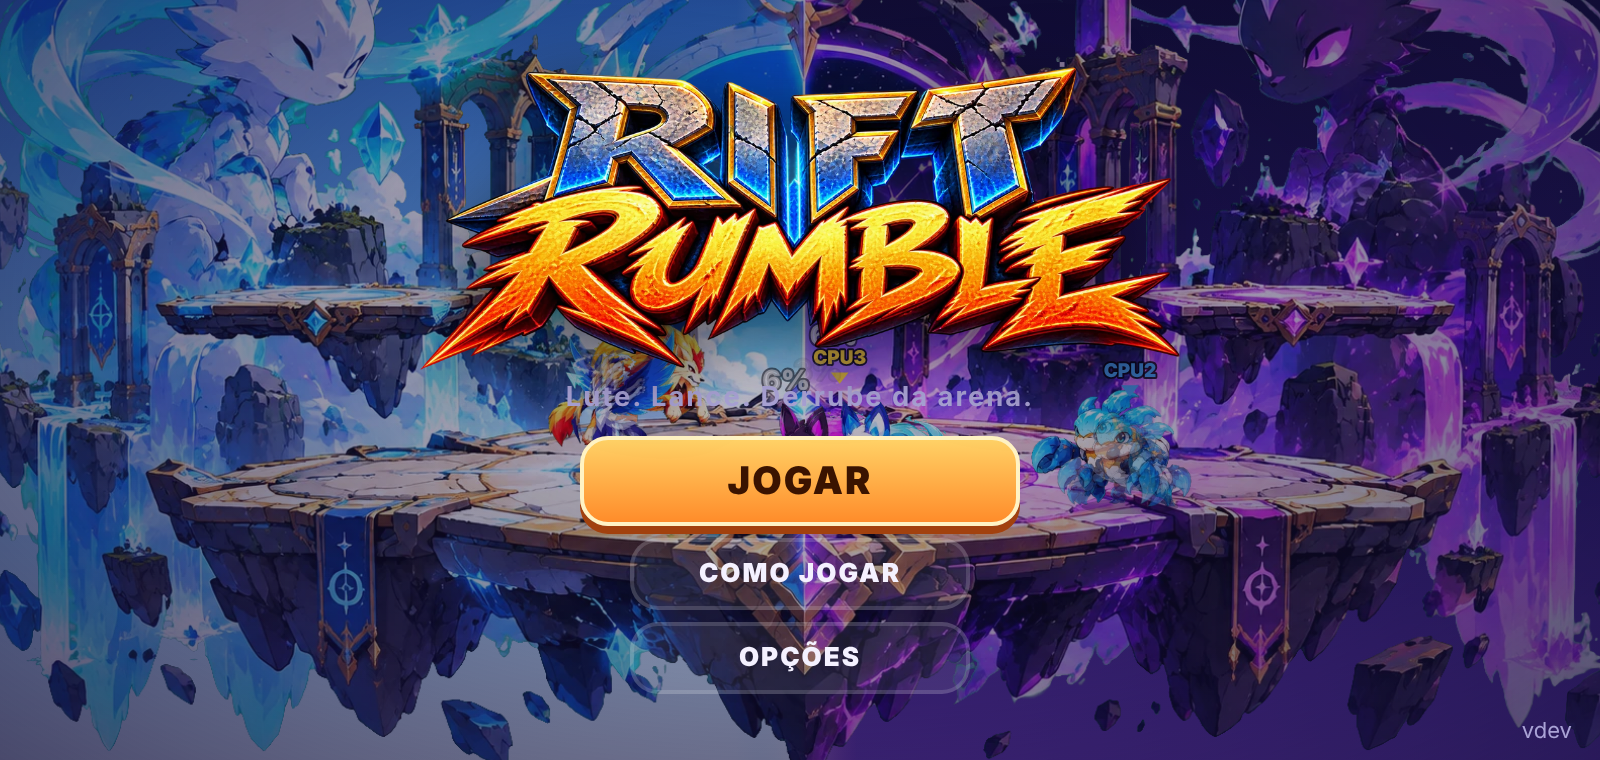
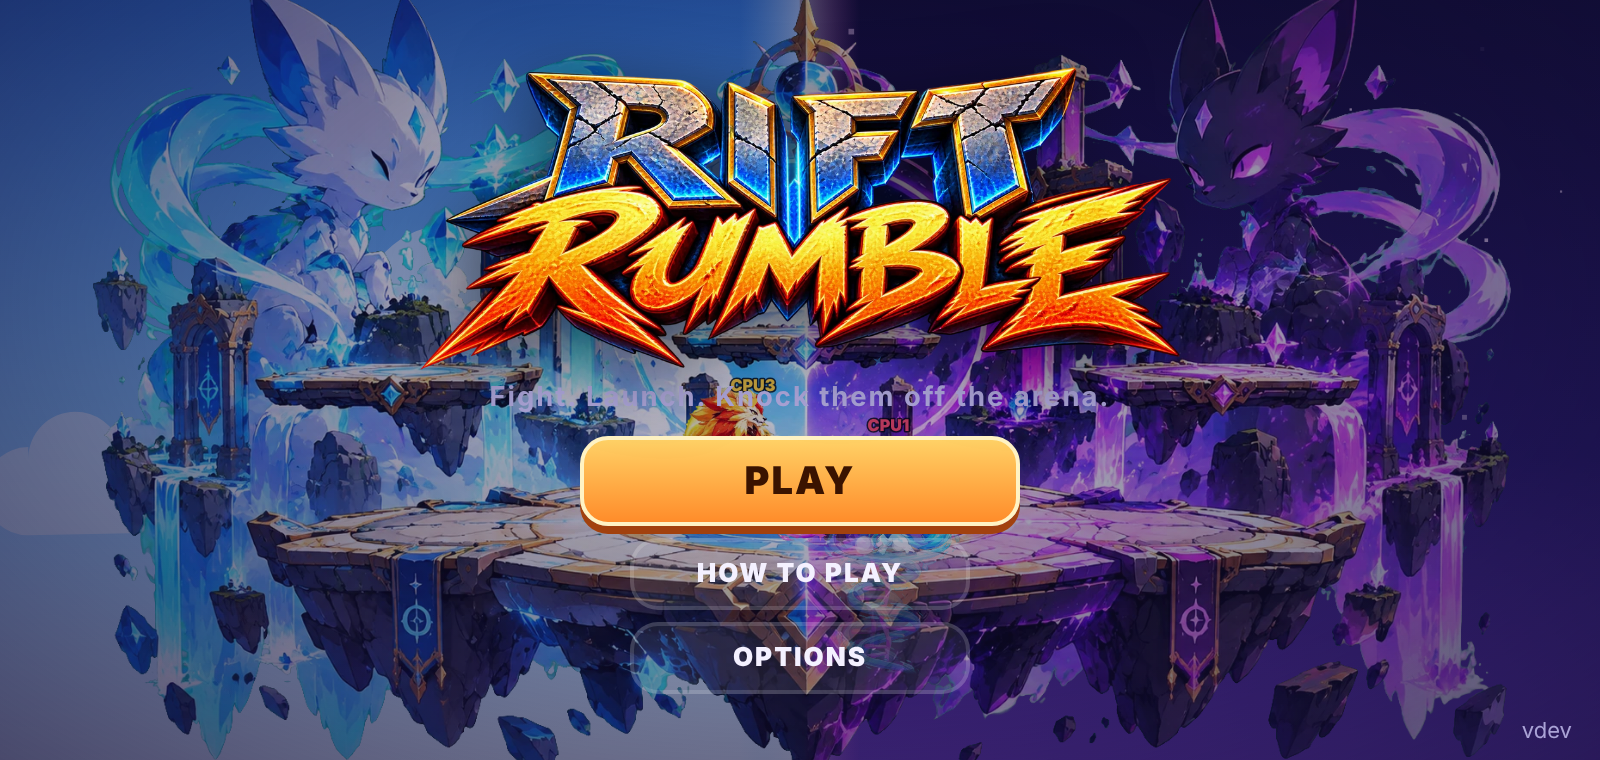
Versão em inglês (idioma automático pelo aparelho, troca nas opções)
- web/js/i18n.js: tradução de menus, como jogar, personagens, golpes e arenas;
  português no aparelho em português, inglês nos outros; escolha salva nas opções
- Textos da luta (FIGHT!, GAME!, WINS!) e resultados também traduzidos

Claude-Session: https://claude.ai/code/session_0144feCwwVd7Wm19kTUF7Xzk

diff --git a/web/js/i18n.js b/web/js/i18n.js
@@ -1,0 +1,190 @@
+// Idiomas: português e inglês. O jogo é escrito em português; aqui fica a tradução de cada texto.
+// Idioma: o salvo nas opções, senão o do aparelho (português -> PT, qualquer outro -> EN).
+// Os textos do HTML são trocados ao carregar; os do código passam por RR.t().
+(function (RR) {
+  const U = RR.U;
+  const EN = {
+    // ---------- menus ----------
+    'Lute. Lance. Derrube da arena.': 'Fight. Launch. Knock them off the arena.',
+    'JOGAR': 'PLAY',
+    'COMO JOGAR': 'HOW TO PLAY',
+    'OPÇÕES': 'OPTIONS',
+    'ESCOLHA SEU LUTADOR': 'CHOOSE YOUR FIGHTER',
+    'PRÓXIMO ▶': 'NEXT ▶',
+    'Modo': 'Mode',
+    'Dificuldade': 'Difficulty',
+    'Oponentes': 'Opponents',
+    '(toque para trocar)': '(tap to change)',
+    'ESCOLHA A ARENA': 'CHOOSE THE ARENA',
+    'LUTAR! ▶': 'FIGHT! ▶',
+    'PAUSADO': 'PAUSED',
+    'CONTINUAR': 'RESUME',
+    'REINICIAR': 'RESTART',
+    'SAIR PARA O MENU': 'QUIT TO MENU',
+    'VITÓRIA!': 'VICTORY!',
+    'DERROTA': 'DEFEAT',
+    'REVANCHE': 'REMATCH',
+    'TROCAR LUTADOR': 'CHANGE FIGHTER',
+    'NOVA VERSÃO!': 'NEW VERSION!',
+    'ATUALIZAR': 'UPDATE',
+    'DEPOIS': 'LATER',
+    'O download abre no navegador. Depois é só tocar no arquivo para instalar.': 'The download opens in the browser. Then tap the file to install.',
+    'Gire o celular para a horizontal': 'Turn your phone sideways',
+    'Pausar': 'Pause',
+    '3 Vidas': '3 Lives',
+    'Tempo 2min': 'Time 2min',
+    'Fácil': 'Easy',
+    'Médio': 'Medium',
+    'Difícil': 'Hard',
+    'Efeitos sonoros': 'Sound effects',
+    'Música': 'Music',
+    'Vibração': 'Vibration',
+    'Mostrar hitboxes (debug)': 'Show hitboxes (debug)',
+    'Tamanho dos controles': 'Control size',
+    'Opacidade dos controles': 'Control opacity',
+    'Idioma': 'Language',
+    'LUTADOR': 'FIGHTER',
+    'QUEDAS': 'FALLS',
+    'DANO': 'DAMAGE',
+    // ---------- luta ----------
+    'LUTEM!': 'FIGHT!',
+    'TEMPO!': 'TIME!',
+    'FIM DE JOGO!': 'GAME!',
+    'VENCEU!': 'WINS!',
+    'FORA': 'OUT',
+    // ---------- personagens ----------
+    'Velocidade': 'Speed',
+    'Força': 'Power',
+    'Peso': 'Weight',
+    'Alcance': 'Range',
+    'Colosso de Pedra': 'Stone Colossus',
+    'Pesado': 'Heavyweight',
+    'Martelo de Rocha': 'Rock Hammer',
+    'Três socos de pedra; o terceiro lança longe.': 'Three stone punches; the third one sends them flying.',
+    'Ruptura Sísmica': 'Seismic Rupture',
+    'Soca o chão e manda uma onda de rochas e cristais pela plataforma.': 'Punches the ground, sending a wave of rocks and crystals across the stage.',
+    'Investida do Touro': 'Bull Rush',
+    'Salta para cima e para a frente com os chifres, blindado.': 'Charges up and forward horns first, with armor.',
+    'Colosso da Terra': 'Earth Colossus',
+    'Esmaga o chão e faz pilares de pedra e cristal emergirem.': 'Smashes the ground and raises pillars of stone and crystal.',
+    'Guardiã das Marés': 'Tide Guardian',
+    'Tanque': 'Tank',
+    'Garras da Maré': 'Tide Claws',
+    'Combo de três golpes rápidos com as pinças.': 'Three quick pincer strikes.',
+    'Orbe Abissal': 'Abyssal Orb',
+    'Dispara uma esfera de água pressurizada.': 'Fires a sphere of pressurized water.',
+    'Jato Lunar': 'Lunar Jet',
+    'Uma coluna de água a lança para cima.': 'A water column launches her upward.',
+    'Imperatriz do Oceano': 'Ocean Empress',
+    'Vira uma criatura aquática gigante que golpeia a arena com ondas.': 'Becomes a giant sea creature that crushes the arena with waves.',
+    'Rei Leão Solar': 'Solar Lion King',
+    'Rei Guerreiro': 'Warrior King',
+    'Garras Solares': 'Solar Claws',
+    'Combo de três golpes com as garras flamejantes.': 'Three strikes with blazing claws.',
+    'Rugido Solar': 'Solar Roar',
+    'Rugido de perto: empurra, deixa tonto e devolve projéteis.': 'Close-range roar: pushes, stuns and reflects projectiles.',
+    'Ascensão do Leão': 'Lion Ascent',
+    'Lança-se para cima envolvido por chamas, com armadura.': 'Launches upward wrapped in flames, with armor.',
+    'Queda do Sol': 'Sunfall',
+    'Salta para fora da tela e cai como um sol em cima do oponente.': 'Leaps off screen and crashes down like a sun on the opponent.',
+    'Arqueiro Estelar': 'Star Archer',
+    'Arqueiro': 'Archer',
+    'Combo Celeste': 'Celestial Combo',
+    'Três disparos rápidos de curta distância com o arco.': 'Bow swing, quick shot and a kick with an arrow.',
+    'Flecha Cometa': 'Comet Arrow',
+    'Segure para carregar: toque = flecha rápida; carga cheia = cometa que atravessa todos.': 'Hold to charge: tap = quick arrow; full charge = comet that pierces everyone.',
+    'Ascensão Estelar': 'Stellar Ascent',
+    'Explosão de energia que o impulsiona para cima.': 'A burst of starlight that launches him upward.',
+    'Chuva de Constelações': 'Constellation Rain',
+    'Flechas cósmicas caem do céu sobre a área à frente.': 'Cosmic arrows rain from the sky on the area ahead.',
+    'Assassina do Escorpião': 'Scorpion Assassin',
+    'Assassina': 'Assassin',
+    'Combo Ferrão': 'Stinger Combo',
+    'Três golpes rápidos com as garras e a cauda.': 'Three fast strikes with claws and tail.',
+    'Bote do Escorpião': 'Scorpion Strike',
+    'Agarrão: prende, crava o ferrão (veneno) e arremessa para trás.': 'Grab: holds, stings (poison) and throws behind.',
+    'Espiral do Escorpião': 'Scorpion Spiral',
+    'Gira a cauda e se impulsiona para cima.': 'Spins her tail to propel herself upward.',
+    'Dança do Eclipse': 'Eclipse Dance',
+    'A arena escurece; ela salta entre os oponentes cortando e termina com o ferrão.': 'The arena goes dark; she slashes between opponents and finishes with her stinger.',
+    'Gêmeos de Luz e Sombra': 'Twins of Light and Shadow',
+    'Gêmeos': 'Twins',
+    'Combo Gêmeo': 'Twin Combo',
+    'Três golpes; no 2º e 3º os dois gêmeos atacam juntos.': 'Three strikes; on the 2nd and 3rd both twins attack together.',
+    'Passo Gêmeo': 'Twin Step',
+    'Some num lampejo e reaparece atrás do oponente, chutando.': 'Vanishes in a flash and reappears behind the opponent, kicking.',
+    'Espiral Gêmea': 'Twin Spiral',
+    'Os gêmeos sobem girando e puxam quem estiver perto.': 'The twins spin upward, pulling in anyone nearby.',
+    'Dragões Gêmeos': 'Twin Dragons',
+    'Dois dragões, de luz e de sombra, atravessam a arena inteira.': 'Two dragons, of light and shadow, sweep across the whole arena.',
+    // ---------- arenas ----------
+    'Platô de Esmeralda': 'Emerald Plateau',
+    'Arena do Bront: disco aberto e baixo sobre as ilhas flutuantes.': "Bront's arena: a wide, low disc above the floating isles.",
+    'Santuário da Maré Lunar': 'Lunar Tide Sanctuary',
+    'Arena da Lunara: pedestal da lua e rochas com cachoeiras.': "Lunara's arena: a moon pedestal and waterfall rocks.",
+    'Trono Solar': 'Solar Throne',
+    'Arena do Solkar: escadarias, ilhas flutuantes e o sol coroado.': "Solkar's arena: stairways, floating isles and the crowned sun.",
+    'Observatório Celeste': 'Celestial Observatory',
+    'Arena do Astrael: passarelas inclinadas e plataformas altas.': "Astrael's arena: sloped walkways and high platforms.",
+    'Abismo do Escorpião': 'Scorpion Abyss',
+    'Arena da Noxara: ruínas no vazio cósmico.': "Noxara's arena: ruins in the cosmic void.",
+    'Santuário dos Gêmeos': 'Twins Sanctuary',
+    'Arena do Vex: metade luz, metade sombra.': "Vex's arena: half light, half shadow.",
+  };
+
+  // "Como jogar" tem formatação (negrito), então troca o bloco inteiro
+  const HOWTO_EN = `
+      <h3>Goal</h3>
+      <p>There's no health bar: every hit raises your <b>damage %</b>. The higher it is, the farther you fly. Knock your opponents off the arena!</p>
+      <h3>Keyboard (PC)</h3>
+      <ul>
+        <li><b>WASD / Arrow keys</b>: move. Down on a thin platform: drop through. Down in the air: fast fall.</li>
+        <li><b>Space</b>: jump (double jump). <b>J</b>: attack (tap for combo; with up/down: high/low attack).</li>
+        <li><b>K</b>: special. <b>Up + K</b>: recovery (to get back to the arena). Astrael: hold K to charge.</li>
+        <li><b>L</b>: shield (with left/right: roll; down: dodge; in the air: air dodge). <b>U</b>: ULTIMATE when the bar is full. <b>Esc</b>: pause.</li>
+      </ul>
+      <h3>Touch (phone)</h3>
+      <p>Joystick on the left to move · <b>A</b> attack · <b>B</b> special · <b>Arrow</b> jump · <b>Shield</b> defend · <b>Star</b> ultimate (fills by dealing and taking damage).</p>
+      <h3>Ledges and respawn</h3>
+      <p>Fall near an edge to <b>grab</b> it. Then: forward climbs, jump leaps, attack climbs attacking. When knocked out, you return on a high platform at 0% and stay <b>invincible for 2 s</b> (blinking).</p>`;
+
+  const saved = U.store.get('lang', null);
+  RR.lang = saved === 'pt' || saved === 'en' ? saved : /^pt/i.test(navigator.language || '') ? 'pt' : 'en';
+  RR.t = (s) => (RR.lang === 'en' && EN[s] != null ? EN[s] : s);
+  RR.setLang = function (l) {
+    U.store.set('lang', l);
+    location.reload();
+  };
+
+  if (RR.lang !== 'en') return;
+
+  // dados do jogo
+  for (const id of RR.chars.list) {
+    const c = RR.chars[id];
+    c.title = RR.t(c.title);
+    c.arche = RR.t(c.arche);
+    for (const s of c.skills) {
+      s.name = RR.t(s.name);
+      s.desc = RR.t(s.desc);
+    }
+    c.stats = Object.fromEntries(Object.entries(c.stats).map(([k, v]) => [RR.t(k), v]));
+    for (const m of Object.values(c.moves)) if (m.name) m.name = RR.t(m.name);
+  }
+  for (const id of RR.stages.list) {
+    const s = RR.stages[id];
+    s.name = RR.t(s.name);
+    s.desc = RR.t(s.desc);
+  }
+
+  // textos do HTML
+  if (typeof document === 'undefined') return;
+  document.documentElement.lang = 'en';
+  const howto = document.querySelector('#screen-howto .panel');
+  if (howto) howto.innerHTML = HOWTO_EN;
+  const walker = document.createTreeWalker(document.body, NodeFilter.SHOW_TEXT);
+  for (let n = walker.nextNode(); n; n = walker.nextNode()) {
+    const k = n.nodeValue.trim();
+    if (k && EN[k] != null) n.nodeValue = n.nodeValue.replace(k, EN[k]);
+  }
+  for (const el of document.querySelectorAll('[aria-label]')) el.setAttribute('aria-label', RR.t(el.getAttribute('aria-label')));
+})(window.RR);

diff --git a/web/js/ui.js b/web/js/ui.js
@@ -3,7 +3,8 @@
   const U = RR.U;
   const ui = (RR.ui = {});
   const $ = (s) => document.querySelector(s);
-  const LEVEL_NAMES = ['Fácil', 'Médio', 'Difícil'];
+  const T = RR.t;
+  const LEVEL_NAMES = ['Fácil', 'Médio', 'Difícil'].map(T);
 
   const cfg = Object.assign(
     { char: 'solkar', mode: 'stock', bots: 1, level: 1, stage: 'leao', cpuChars: ['random', 'random', 'random'] },
@@ -74,7 +75,7 @@
       grid.appendChild(card);
       portraits.push({ cv, d });
     }
-    seg('#optMode', [['stock', '3 Vidas'], ['time', 'Tempo 2min']], () => cfg.mode, (v) => (cfg.mode = v));
+    seg('#optMode', [['stock', T('3 Vidas')], ['time', T('Tempo 2min')]], () => cfg.mode, (v) => (cfg.mode = v));
     seg('#optBots', [[1, '1'], [2, '2'], [3, '3']], () => cfg.bots, (v) => (cfg.bots = v));
     seg('#optLevel', LEVEL_NAMES.map((n, i) => [i, n]), () => cfg.level, (v) => (cfg.level = v));
     refreshSelect();
@@ -226,12 +227,26 @@
     const p = $('#optionsPanel');
     const s = RR.settings;
     const toggles = [
-      ['sound', 'Efeitos sonoros'],
-      ['music', 'Música'],
-      ['vibration', 'Vibração'],
-      ['hitboxes', 'Mostrar hitboxes (debug)'],
+      ['sound', T('Efeitos sonoros')],
+      ['music', T('Música')],
+      ['vibration', T('Vibração')],
+      ['hitboxes', T('Mostrar hitboxes (debug)')],
     ];
     p.innerHTML = '';
+    const lr = document.createElement('div');
+    lr.className = 'row';
+    lr.innerHTML = `<span>${RR.lang === 'en' ? 'Language' : 'Idioma / Language'}</span>`;
+    const ls = document.createElement('div');
+    ls.className = 'seg';
+    for (const [v, name] of [['pt', 'Português'], ['en', 'English']]) {
+      const b = document.createElement('button');
+      b.textContent = name;
+      b.classList.toggle('on', RR.lang === v);
+      b.addEventListener('click', () => v !== RR.lang && RR.setLang(v));
+      ls.appendChild(b);
+    }
+    lr.appendChild(ls);
+    p.appendChild(lr);
     for (const [k, label] of toggles) {
       const row = document.createElement('div');
       row.className = 'row';
@@ -250,8 +265,8 @@
       p.appendChild(row);
     }
     const sliders = [
-      ['ctrlSize', 'Tamanho dos controles', 0.7, 1.4, 0.05],
-      ['ctrlOpacity', 'Opacidade dos controles', 0.2, 1, 0.05],
+      ['ctrlSize', T('Tamanho dos controles'), 0.7, 1.4, 0.05],
+      ['ctrlOpacity', T('Opacidade dos controles'), 0.2, 1, 0.05],
     ];
     for (const [k, label, min, max, step] of sliders) {
       const row = document.createElement('div');
@@ -340,10 +355,10 @@
     const won = rank[0] === human;
     RR.platform.gameplayStop();
     if (won) RR.platform.happy();
-    $('#resTitle').textContent = won ? 'VITÓRIA!' : 'DERROTA';
+    $('#resTitle').textContent = T(won ? 'VITÓRIA!' : 'DERROTA');
     $('#resTitle').style.color = won ? '#ffd166' : '#ff6b6b';
     const tbl = $('#resTable');
-    tbl.innerHTML = '<div class="res-row head"><span></span><span></span><span>LUTADOR</span><span class="v">KOs</span><span class="v">QUEDAS</span><span class="v">DANO</span></div>';
+    tbl.innerHTML = `<div class="res-row head"><span></span><span></span><span>${T('LUTADOR')}</span><span class="v">KOs</span><span class="v">${T('QUEDAS')}</span><span class="v">${T('DANO')}</span></div>`;
     rank.forEach((f, i) => {
       const row = document.createElement('div');
       row.className = 'res-row';
@@ -351,7 +366,7 @@
       const cv = document.createElement('canvas');
       cv.width = 92;
       cv.height = 92;
-      row.innerHTML = `<span class="pos">${i + 1}º</span>`;
+      row.innerHTML = `<span class="pos">${RR.lang === 'en' ? i + 1 + ['st', 'nd', 'rd', 'th'][Math.min(i, 3)] : i + 1 + 'º'}</span>`;
       row.appendChild(cv);
       row.insertAdjacentHTML(
         'beforeend',

diff --git a/web/js/game.js b/web/js/game.js
@@ -16,6 +16,7 @@
     water: ['#ffffff', '#8fdcff', '#3db4ff'],
   };
   RR.FX_COLORS = FX_COLORS;
+  const T = (s) => (RR.t ? RR.t(s) : s);
   const PCOLORS = ['#ff4d6d', '#4dabff', '#ffd23f', '#7cff6b'];
   RR.PCOLORS = PCOLORS;
 
@@ -72,7 +73,7 @@
           this.phase = 'play';
           this.phaseT = 0;
           sfx('go');
-          this.showMessage('LUTEM!', 50);
+          this.showMessage(T('LUTEM!'), 50);
         }
         this.drainHuman();
         for (const f of this.fighters) {
@@ -104,7 +105,7 @@
             w.moveAndCollide(this);
           }
           if (this.endT === 150) {
-            this.showMessage(w.def.name.toUpperCase() + ' VENCEU!', 150, w.def.color);
+            this.showMessage(w.def.name.toUpperCase() + ' ' + T('VENCEU!'), 150, w.def.color);
             this.flashScreen('#ffffff', 0.35);
             this.ring(w.x, w.y - w.h * 0.5, w.def.color, 160);
           }
@@ -420,7 +421,7 @@
       if (this.phase === 'ending' || this.phase === 'done') return;
       this.phase = 'ending';
       this.endT = 230;
-      this.showMessage(this.mode === 'time' ? 'TEMPO!' : 'FIM DE JOGO!', 80, '#ffd166');
+      this.showMessage(T(this.mode === 'time' ? 'TEMPO!' : 'FIM DE JOGO!'), 80, '#ffd166');
       sfx('game');
       this.hitstop = 0;
       RR.ui && RR.ui.hideControls && RR.ui.hideControls(true);

diff --git a/web/js/render.js b/web/js/render.js
@@ -384,7 +384,7 @@
       if (!out && f.state !== 'dead') {
         text(ctx, pc + '%', x + cw - 10 + ox, y + 24 + oy, Math.min(28, cw * 0.19), pctColor(pc), 'right');
       } else {
-        text(ctx, out ? 'FORA' : 'KO', x + cw - 10, y + 24, 18, '#aaa', 'right');
+        text(ctx, out ? RR.t('FORA') : 'KO', x + cw - 10, y + 24, 18, '#aaa', 'right');
       }
       // vidas ou placar
       if (g.mode === 'stock') {

diff --git a/web/index.html b/web/index.html
@@ -143,6 +143,7 @@
   <script src="js/audio.js"></script>
   <script src="js/characters.js"></script>
   <script src="js/stages.js"></script>
+  <script src="js/i18n.js"></script>
   <script src="js/fighter.js"></script>
   <script src="js/ai.js"></script>
   <script src="js/input.js"></script>
